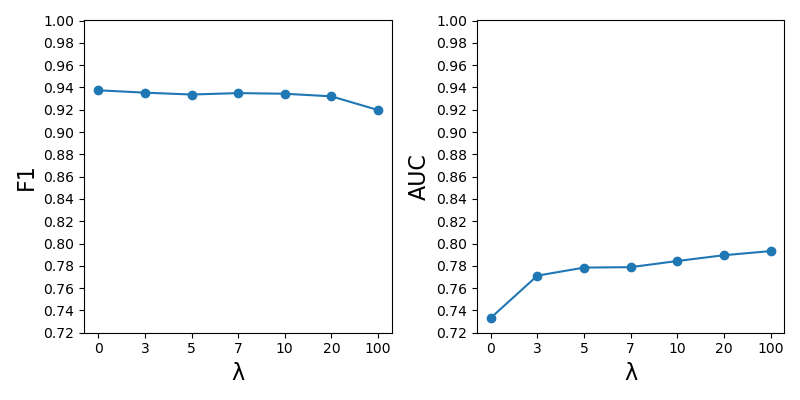
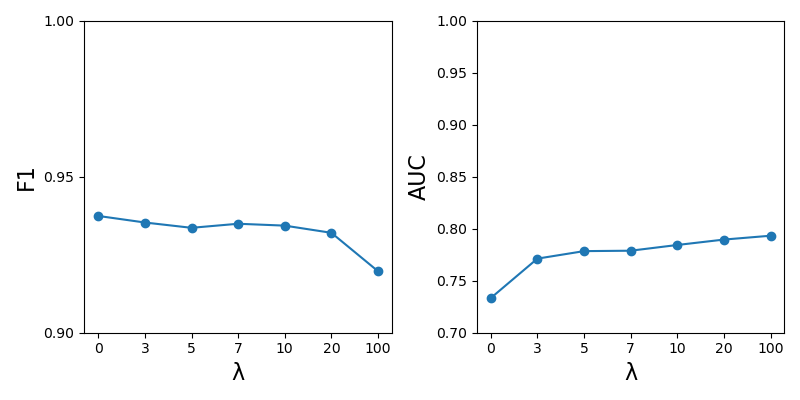
final commit #1

diff --git a/main.py b/main.py
@@ -1,12 +1,11 @@
-from pathlib import Path
-from typing import List, Tuple, Type, Dict, Any
 import time
+from pathlib import Path
+from typing import Any, Dict, List, Tuple, Type
+
 import numpy as np
 import torch
-from torch import Tensor, LongTensor
-
 from sklearn.model_selection import train_test_split
-from torch import relu, tanh
+from torch import tanh
 
 from src.build_graphs import build_edge_indices, make_undirected
 from src.models import Trainer
@@ -23,7 +22,6 @@ BITCOIN_ALPHA = {"file": "soc-sign-bitcoinalpha.csv", "split_symbol": ",", "targ
 BITCOIN_OTC = {"file": "soc-sign-bitcoinotc.csv", "split_symbol": ",", "target_num_nodes": None}
 SLASHDOT = {"file": "soc-sign-Slashdot090221.txt", "split_symbol": "\t", "target_num_nodes": 33586}
 EPINIONS = {"file": "soc-sign-epinions.txt", "split_symbol": "\t", "target_num_nodes": 16992}
-# MY_GRAPH = {"file": "mygraph.csv", "split_symbol": ",", "target_num_nodes": None}
 
 ALL_FILES = [BITCOIN_ALPHA, BITCOIN_OTC, SLASHDOT, EPINIONS]
 ALL_FILES_REALLY = [
@@ -190,39 +188,36 @@ def main(
                 np.average(f1s),
                 np.average(runtimes),
             )
-            with open(Path("runs_dist") / "res_dist.csv", "a") as f:
-                f.write(f"{algorithm},auc,{','.join([str(auc) for auc in aucs])}\n")
-                f.write(f"{algorithm},f1,{','.join([str(f1) for f1 in f1s])}\n")
 
-    # with open(Path("runs") / f"res_{get_timestamp()}.csv", "x") as f:
-    #     f.write("algorithm,dataset,auc,f1,avg_runtime\n")
-    #     for key, value in results.items():
-    #         f.write(
-    #             f"{key[0]},{key[1]},{round(value[0], 3)},{round(value[1], 3)},{round(value[2], 3)}\n"
-    #         )
+    with open(Path("runs") / f"res_{get_timestamp()}.csv", "x") as f:
+        f.write("algorithm,dataset,auc,f1,avg_runtime\n")
+        for key, value in results.items():
+            f.write(
+                f"{key[0]},{key[1]},{round(value[0], 3)},{round(value[1], 3)},{round(value[2], 3)}\n"
+            )
 
-    #     # empty row between csv and hyperparamets
-    #     f.write("\n")
+        # empty row between csv and hyperparamets
+        f.write("\n")
 
-    #     f.write("General hyperparameters:\n")
-    #     f.write(f"\ttest split size: {test_size}\n")
-    #     f.write(f"\tval split size: {val_size}\n")
-    #     f.write(f"\tembedding size: {embedding_size}\n")
-    #     f.write(f"\tundirected graph: {undirected}\n")
-    #     f.write(f"\trepeats: {repeats}\n")
-    #     f.write(f"\tseed: {seed}\n")
+        f.write("General hyperparameters:\n")
+        f.write(f"\ttest split size: {test_size}\n")
+        f.write(f"\tval split size: {val_size}\n")
+        f.write(f"\tembedding size: {embedding_size}\n")
+        f.write(f"\tundirected graph: {undirected}\n")
+        f.write(f"\trepeats: {repeats}\n")
+        f.write(f"\tseed: {seed}\n")
 
-    #     f.write("\n")
+        f.write("\n")
 
-    #     for hyperpars_alg_name, hyperpars_pars in hyperpars.items():
-    #         f.write(f"{hyperpars_alg_name}:\n")
-    #         for hyperpars_par_name, hyperpars_par_value in hyperpars_pars.items():
-    #             f.write(f"\t{hyperpars_par_name}: {hyperpars_par_value}\n")
+        for hyperpars_alg_name, hyperpars_pars in hyperpars.items():
+            f.write(f"{hyperpars_alg_name}:\n")
+            for hyperpars_par_name, hyperpars_par_value in hyperpars_pars.items():
+                f.write(f"\t{hyperpars_par_name}: {hyperpars_par_value}\n")
 
 
 if __name__ == "__main__":
     main(
-        repeats=100,
+        repeats=3,
         undirected=UNDIRECTED,
         seed=SEED,
         test_size=TEST_SIZE,
@@ -231,12 +226,9 @@ if __name__ == "__main__":
         # datasets=[BITCOIN_ALPHA, BITCOIN_OTC, SLASHDOT, EPINIONS],
         datasets=[BITCOIN_ALPHA],
         algorithms=[
-            # (SSETrainer, "sse"),
+            (SSETrainer, "sse"),
             (SGCNTrainer, "sgcn2"),
             (SGCNTrainer, "sgcn1"),
             (SGCNTrainer, "sgcn1p"),
         ],
-        # algorithms=[
-        #     (SGCNTrainer, "sgcn2"),
-        # ],
     )

diff --git a/dist_plot.py b/dist_plot.py
@@ -1,6 +1,64 @@
 import matplotlib.pyplot as plt
 import numpy as np
 from pathlib import Path
-import pandas as pd
+import scipy.stats as stats
 
-df = pd.read_csv(Path("run_dist/res_dist.csv"), sep=",", names=["algo", "score"])
+x_ticks_0 = np.arange(0.76, 0.81, 0.01)
+x_ticks_1 = np.arange(0.92, 0.94, 0.01)
+
+with open(Path("runs_dist/res_dist.csv"), "r") as f:
+    res = {}
+    for line in f.readlines():
+        l = line.split(",")
+        res[l[0] + l[1]] = list(map(float, l[2:]))
+
+fig, axs = plt.subplots(2, 1, figsize=(6, 5))
+# auc
+bp1 = axs[0].boxplot(
+    [res["sgcn2auc"], res["sgcn1pauc"], res["sgcn1auc"]],
+    labels=["SGCN-2", "SGCN-1+", "SGCN-1"],
+    vert=False,
+)
+axs[0].set_xlabel("AUC")
+axs[0].legend([bp1["medians"][0]], ["median"])
+axs[0].set_xticks(x_ticks_0)
+
+
+# f1
+bp2 = axs[1].boxplot(
+    [res["sgcn2f1"], res["sgcn1pf1"], res["sgcn1f1"]],
+    labels=["SGCN-2", "SGCN-1+", "SGCN-1"],
+    vert=False,
+)
+axs[1].set_xlabel("F1")
+axs[1].legend([bp2["medians"][0]], ["median"])
+axs[1].set_xticks(x_ticks_1)
+# plt.show()
+plt.tight_layout()
+fig.savefig("dist_plot.png")
+
+f_auc, p_auc = stats.f_oneway(res["sgcn2auc"], res["sgcn1auc"], res["sgcn1pauc"])
+f_f1, p_f1 = stats.f_oneway(res["sgcn2f1"], res["sgcn1f1"], res["sgcn1pf1"])
+print(f"{p_auc=}. Can we reject null hypotheses? {p_auc < 0.05}")
+print(f"{p_f1=}. Can we reject null hypotheses? {p_f1 < 0.05}")
+
+print("### STD DEVS AND MEAN ###")
+for name, results in res.items():
+    print(f"{name}:\tstd: {np.std(results)},\tmean:{np.mean(results)}")
+
+f_auc_1_1p, p_auc_1_1p = stats.f_oneway(res["sgcn1auc"], res["sgcn1pauc"])
+f_auc_2_1p, p_auc_2_1p = stats.f_oneway(res["sgcn2auc"], res["sgcn1pauc"])
+f_auc_2_1, p_auc_2_1 = stats.f_oneway(res["sgcn2auc"], res["sgcn1auc"])
+f_f1_1_1p, p_f1_1_1p = stats.f_oneway(res["sgcn1f1"], res["sgcn1pf1"])
+f_f1_2_1p, p_f1_2_1p = stats.f_oneway(res["sgcn2f1"], res["sgcn1pf1"])
+f_f1_2_1, p_f1_2_1 = stats.f_oneway(res["sgcn2f1"], res["sgcn1f1"])
+
+for f_value, p_value, string in [
+    (f_auc_1_1p, p_auc_1_1p, "AUC, SGCN-1, SGCN-1+"),
+    (f_auc_2_1p, p_auc_2_1p, "AUC, SGCN-2, SGCN-1+"),
+    (f_auc_2_1, p_auc_2_1, "AUC, SGCN-2, SGCN-1"),
+    (f_f1_1_1p, p_f1_1_1p, "F1, SGCN-1, SGCN-1+"),
+    (f_f1_2_1p, p_f1_2_1p, "F1, SGCN-2, SGCN-1+"),
+    (f_f1_2_1, p_f1_2_1, "F1, SGCN-2, SGCN-1"),
+]:
+    print(f"For {string}: {f_value=}, {p_value=}. Can we reject null hypotheses? {p_value < 0.05}")

diff --git a/lambda_plot.py b/lambda_plot.py
@@ -32,21 +32,22 @@ lambdas = np.asarray([0, 3, 5, 7, 10, 20, 100])
 aucs = np.asarray([0.7333, 0.7712, 0.7784, 0.7788, 0.7843, 0.7895, 0.7932])
 f1s = np.asarray([0.9374, 0.9353, 0.9336, 0.9349, 0.9343, 0.932, 0.9197])
 fake_x = range(len(lambdas))
-y_ticks = np.arange(0.72, 1.0, 0.02)
+y_ticks_0 = np.arange(0.9, 1.01, 0.05)
+y_ticks_1 = np.arange(0.7, 1.01, 0.05)
 
 fig, axs = plt.subplots(1, 2, figsize=(8, 4))
 
 axs[0].plot(fake_x, f1s)
 axs[0].scatter(fake_x, f1s)
 axs[0].set_xticks(fake_x, lambdas)
-axs[0].set_yticks(y_ticks)
+axs[0].set_yticks(y_ticks_0)
 axs[0].set_xlabel("λ", fontsize=16)
 axs[0].set_ylabel("F1", fontsize=16)
 
 axs[1].plot(fake_x, aucs)
 axs[1].scatter(fake_x, aucs)
 axs[1].set_xticks(fake_x, lambdas)
-axs[1].set_yticks(y_ticks)
+axs[1].set_yticks(y_ticks_1)
 axs[1].set_xlabel("λ", fontsize=16)
 axs[1].set_ylabel("AUC", fontsize=16)
 

diff --git a/README.md b/README.md
@@ -1,2 +1,34 @@
 # signed_graph_convolutional_network_reproduction
 Reproduction of paper Signed Graph Convolutional Network
+
+The result for tables 6 and 7 in our report can be found in file runs/res_2022-01-24_13-45-46.csv
+
+## Contents
+
+`data`: includes the datasets we used
+
+`runs`: includes the logs of our experiment runs (Experiment 1)
+
+`runs_dist`: includes the logs of our statistical significance analysis (Experiment 2)
+
+`runs_lambda`: includes the logs of our hyperparameter sensitivity analysis (Experiment 3)
+
+`src`: contains our models, the training and evaluation pipeline
+
+
+## Running the Code
+
+### Environment
+
+We provide a conda `environment.yml` file which includes the environment which we used.
+
+Set it up with this command:
+
+```sh
+conda env create -f environment.yml
+```
+
+### Experiments
+
+To run Experiment 1, simply run `main.py`. For the other experiments, you can adjust the specific independent variables (`sgcn2_hyperpars_torch["lamb"]`, `REPEATS`) in `main.py`.
+
